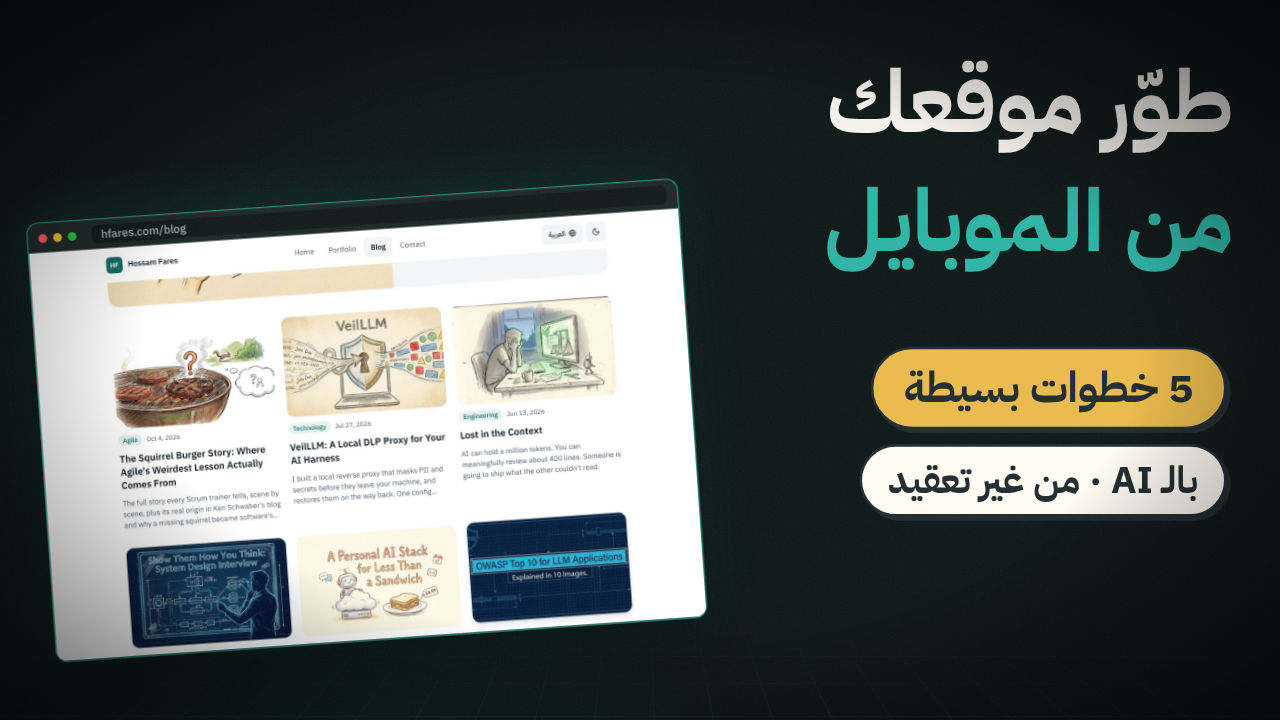
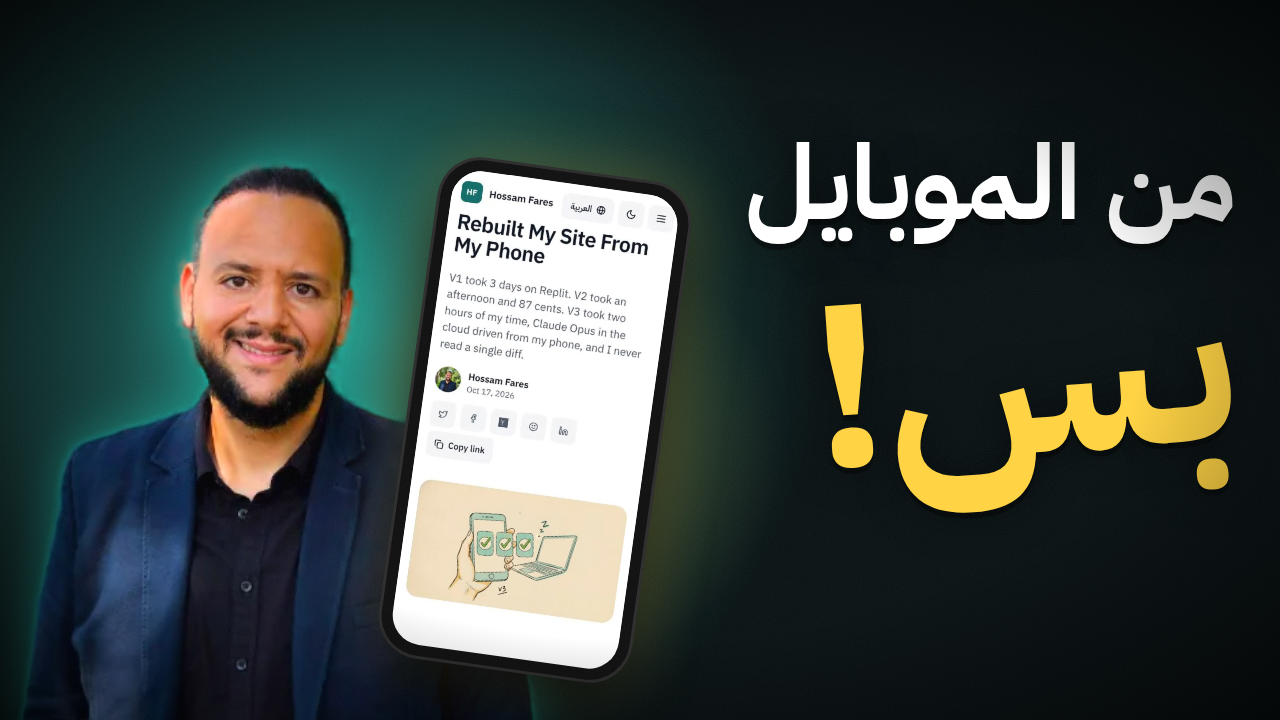
v3-portfolio: new beginner-cut thumbnail, face + phone + three words
Claude-Session: https://claude.ai/code/session_01J851kTx4Ameakjfvw9gaFK

diff --git a/examples/src/v3d/Thumbnail.tsx b/examples/src/v3d/Thumbnail.tsx
@@ -1,27 +1,68 @@
-// Thumbnail (1280x720) for the beginner cut: the V3 blog page, five simple steps, no portrait.
+// Thumbnail (1280x720) for the beginner cut: face + phone, three words, dark base with a strong teal light.
 import React from "react";
-import { AbsoluteFill } from "remotion";
+import { AbsoluteFill, Img, staticFile } from "remotion";
 import { theme } from "../v3/theme";
-import { ACCENT, Chip, Finish, Frame, StudioBg, T } from "../v3b/kit";
+import { Finish } from "../v3b/kit";
 
-const C = theme.colors;
+const TEAL = "#2BB3A3";
+const YELLOW = "#FFD23F";
+const site = (f: string) => staticFile(`videos/v3-portfolio/site/${f}`);
+
+const word = (size: number, color: string): React.CSSProperties => ({
+  fontFamily: theme.fonts.main,
+  fontWeight: 700,
+  fontSize: size,
+  color,
+  lineHeight: 1.05,
+  direction: "rtl",
+  whiteSpace: "nowrap",
+  textShadow: "0 6px 0 #00000088, 0 0 40px #00000099",
+});
 
 export const ThumbnailSimple: React.FC = () => (
-  <AbsoluteFill>
-    <StudioBg accent={ACCENT.hook} />
-    <AbsoluteFill style={{ transform: "scale(0.6667)", transformOrigin: "0 0", width: 1920, height: 1080 }}>
-      <div style={{ position: "absolute", left: 60, top: 300, transform: "rotate(-4deg)" }}>
-        <Frame src="v3-bloglist-grid.jpg" w={980} url="hfares.com/blog" accent={ACCENT.hook} />
+  <AbsoluteFill style={{ background: "#071012", overflow: "hidden" }}>
+    {/* key light behind the face, second glow behind the phone */}
+    <AbsoluteFill style={{ background: `radial-gradient(circle at 26% 46%, ${TEAL}cc 0%, ${TEAL}55 22%, transparent 48%)` }} />
+    <AbsoluteFill style={{ background: `radial-gradient(circle at 44% 62%, ${YELLOW}40 0%, transparent 26%)` }} />
+
+    {/* face, cut out, rim-lit */}
+    <Img
+      src={site("me-cut.png")}
+      style={{
+        position: "absolute",
+        left: -150,
+        bottom: -10,
+        height: 690,
+        filter: `drop-shadow(0 0 3px ${TEAL}) drop-shadow(0 0 26px ${TEAL}99) contrast(1.08) saturate(1.1)`,
+      }}
+    />
+
+    {/* phone with the article on screen */}
+    <div
+      style={{
+        position: "absolute",
+        left: 410,
+        top: 170,
+        width: 250,
+        height: 500,
+        borderRadius: 40,
+        background: "#0d0d0d",
+        padding: 11,
+        transform: "rotate(8deg)",
+        boxShadow: `0 0 0 3px #2a2a2a, 0 30px 60px #000000cc, 0 0 70px ${YELLOW}55`,
+      }}
+    >
+      <div style={{ width: "100%", height: "100%", borderRadius: 30, overflow: "hidden", background: "#fff" }}>
+        <Img src={site("v3-post-mob.jpg")} style={{ width: "100%", display: "block" }} />
       </div>
-      <div style={{ position: "absolute", right: 70, top: 70, display: "flex", flexDirection: "column", alignItems: "flex-end", gap: 10 }}>
-        <T size={130}>طوّر موقعك</T>
-        <T size={130} color={ACCENT.hook}>من الموبايل</T>
-      </div>
-      <div style={{ position: "absolute", right: 80, top: 520, display: "flex", flexDirection: "column", alignItems: "flex-end", gap: 22 }}>
-        <Chip size={64} bg={C.mustard}>5 خطوات بسيطة</Chip>
-        <Chip size={56} bg={C.card}>بالـ AI · من غير تعقيد</Chip>
-      </div>
-    </AbsoluteFill>
+    </div>
+
+    {/* three words */}
+    <div style={{ position: "absolute", right: 44, top: 130, display: "flex", flexDirection: "column", alignItems: "flex-end", gap: 6 }}>
+      <div style={word(104, "#ffffff")}>من الموبايل</div>
+      <div style={{ ...word(230, YELLOW), transform: "rotate(-4deg)", marginTop: 10 }}>بس!</div>
+    </div>
+
     <Finish />
   </AbsoluteFill>
 );

diff --git a/remotion-motion-graphics/references/youtube-explainers.md b/remotion-motion-graphics/references/youtube-explainers.md
@@ -81,8 +81,16 @@ Arabic basics.
   YouTube copy and brief while it renders.
 - Master is ~220 MB at CRF 18. Send that to the user; commit a CRF 28 copy
   (~40 MB) to stay under GitHub's 100 MB limit.
-- Deliver: video, 1280×720 thumbnail (one bold claim, a crossed-out "before"
-  object, the hero device), 3 title options, description with chapters, tags.
+- Deliver: video, 1280×720 thumbnail, 3 title options, description with
+  chapters, tags.
+- Thumbnail (rejected as "worse than a basic Canva one" when it was a small
+  browser screenshot + 4 lines of text on a flat dark stage): one focal point,
+  at most 3 words, readable at phone size. Ask face or no face first. Recipe
+  that worked: face cut out with `rembg` (`isnet-general-use`, alpha matting),
+  big on one side with a coloured rim light (`drop-shadow` glow) and a strong
+  radial key light behind; a phone showing the real page; 2 lines of huge text
+  (second word in yellow, slight tilt). Build it at native 1280×720 and check
+  that nothing overlaps.
 
 ## 7. Shell gotcha
 - `pkill -f <pattern>` AND `pgrep -f <pattern>` match the shell running the
